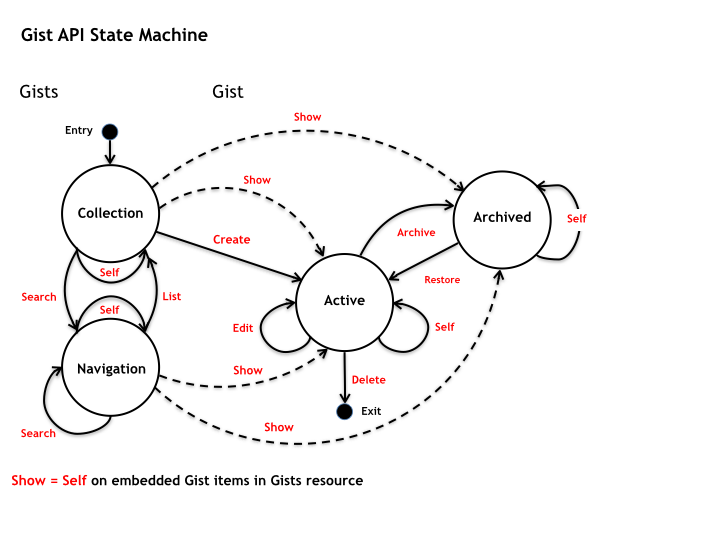
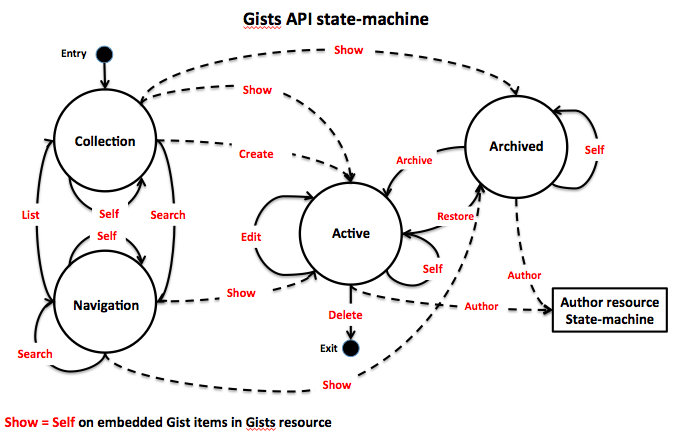
various wording fixes in README and API.md and updated state-machine pics

diff --git a/resource blueprint/README.md b/resource blueprint/README.md
@@ -1,10 +1,16 @@
 # Resource Blueprint
-Initial proposal of resource-oriented, protocol-independent [API Blueprint](http://apiblueprint.org). Focused on modeling API resources, its attributes, affordances and an API state machine.
+Initial proposal of resource-oriented, protocol-independent [API Blueprint](http://apiblueprint.org). Focused on modeling API resources, their attributes, [affordances](http://en.wikipedia.org/wiki/Affordance) and an API state machine.
 
 ## Use Case API
-As a use-case API this proposal is built on [Gist Fox API](../examples/Gist%20Fox%20API.md). To demonstrate the description of the API state machine the Gist Fox API is extended with additional resource states.
+As a use-case API this proposal is built on [Gist Fox API](../examples/Gist%20Fox%20API.md). This example API includes:
 
-The actual proposed blueprint can be found in the [Gist API.md](Gist%20API.md) file. To view the source of the Gist API check its [raw version](https://raw.github.com/apiaryio/api-blueprint/resource-blueprint/resource%20blueprint/Gist%20API.md). Refer to [Resource Blueprint Syntax](#syntax) for explanation of new syntax constructs.
+* Entry point details
+* Gists collection resource in full detail
+* Gist entity resource in minimal detail
+
+To demonstrate the description of the API state machine the Gist Fox API is extended with additional resource states.
+The actual proposed blueprint can be found in the [Gist API.md](Gist%20API.md) file. To view the source of the Gist API 
+check its [raw version](https://raw.github.com/apiaryio/api-blueprint/resource-blueprint/resource%20blueprint/Gist%20API.md). Refer to [Resource Blueprint Syntax](#syntax) for explanation of new syntax constructs.
 
 ## Gist State Machine
 
@@ -14,7 +20,7 @@ An entry point to Resource Blueprint Gist API is the `Gists` resource in its `co
 
 ![fig1](assets/Gist%20State%20Machine%20001.png)
 
-> **Note:** Collection also serves as a factory for individual entities.
+> **Note:** Collection also serves as a factory for individual `Gist` entities.
 
 ### Gist Resource
 A `Gist` resource created by the `Gists`'s `create` affordance has following two states: `active` and `archived`:
@@ -22,11 +28,9 @@ A `Gist` resource created by the `Gists`'s `create` affordance has following two
 ![fig2](assets/Gist%20State%20Machine%20002.png)
 
 ### Embedded Entities
-Finally, a `Gist` resource embedded in the `items` attribute of a `Gists` resource can be accessed via its `self` affordance:
+Finally, an individual `Gist` resource embedded in the `items` attribute of a `Gists` resource can be accessed directly via its `self` affordance:
 
 ![fig3](assets/Gist%20State%20Machine%20003.png)
-
-> **Note:** The `Gist` Resource also specifies an undefined `Author` affordance. This is inte
 
 <a name="syntax"></a>
 ## Resource Blueprint Syntax
@@ -38,14 +42,14 @@ New keywords introduced in the Resource Blueprint are:
 
 + 	`Resource` - Definition of a resource e.g. `Resource <resource name>`.
 
-+ 	`Attributes` - Definition of resource attributes. *Alt keyword:* `Properites`.
++ 	`Attributes` - Definition of resource attributes. *Alt keyword:* `Properties`.
 
-+ 	`Affordances` (optional) - Definition of **all** resource's affordances. *Alt keywords:* `Transition`, `Actions` or `Link Relations`.
++ 	`Affordances` (optional) - Definition of **all** resource's affordances. *Alt keywords:* `Transitions`, `Actions` or `Link Relations`.
 		
 	*Optional:* A resource definition without any affordance should assume one default "show/self" affordance.
 
 + 	`States` (optional) - definition of resource states and state transitions invoked using affordances.
-	Each state should lists all available affordances the final state of using the relevant affordance in format:
+	Each state should list all available affordances and the associated final state using the relevant affordance in the format:
 
     ```
     <affordance> -> <new state>
@@ -59,23 +63,24 @@ New keywords introduced in the Resource Blueprint are:
 	Associated with business rules tied to an affordance being available or present in a response. 
 	*Alt keywords:* `Permissions` or `Rights`
 
-	*Optional:* Conditional affordances are completely optional.
+	*Optional:* Conditions on affordances are completely optional. Absent conditions, an affordance should be considered always present in a response.
 
 +	`HTTP`, `TCP`, `COAP`, `<other protocol>` (optional) - Protocol specific implementation of respective affordances.
 
 	*Optional:* Protocol section should be optional. If not present, in the case of HTTP, a default method (GET?) should be expected with a default URI constructed from the resource name and possibly affordance parameters and or name. To be decided. 
 
-+	`Media Types` (optional) - List of supported media type representation of respective resource attributes and affordances.
++	`Media Types` (optional) - List of supported media type representations of respective resource attributes and affordances.
 	Might include an explicit example asset.
 
 	*Optional:* If media types are not present a default media type should be provided possibly `application/hal+json` and `application/vnd.siren+json`
 
-	If a media type is specified by no explicit example is provided a default representation using attributes and affordances should be provided.
+	If a media type is specified but no explicit example is provided, a default representation using attributes and affordances will be
+	generated for known media-types. For unknown media-types an explicit example should be included.
 
 > **Note:** Consider using alt keywords to improve clarity for general audience.
 
 ### Naming Attributes and Affordances
-Where possible use an undecorated plain text. In the case of a clash with keyword and/or the need for escaping (to not collide with Markdown syntax) use [Markdown code span element syntax](http://daringfireball.net/projects/markdown/syntax#code) e.g. `` `Attributes` ``.
+Where possible use undecorated plain text. In the case of a clash with keyword and/or the need for escaping (to not collide with Markdown syntax) use [Markdown code span element syntax](http://daringfireball.net/projects/markdown/syntax#code) e.g. `` `Attributes` ``.
 
 ### Referencing Syntax
 + 	Reference to a resource representation: `[<resource>][]`

diff --git a/resource blueprint/Gist API.md b/resource blueprint/Gist API.md
@@ -5,31 +5,57 @@ Our Gists API.
 [Gists.list][]
 
 ## Resource Gists
-Resource Gists is a list of individual Gist pastes.
+The Gists resource is a list of individual Gist pastes.
 
 ### Attributes
-The properities of a gist collection.
+The properties of a gist collection (Gists resource).
 
 + total_count (number) - The count of gists in the collection.
-+ items (array) - The array of embedded gist entities.
+  + Metadata
+    + profile:
+      + type: semantic
++ items (array) - An array of embedded individual [Gist][] entities.
+  + Metadata
+    + profile:
+      + type: semantic
+      
 
 ### Affordances
 Link relations of a gist collection.
 
 + list - Returns the current resource.
-
-+ create - Creates a gists, adds a gist to collection.
-    + Attributes
-        + description (string) - Description of the gist.
-        + content (string) - Content of the gist.
-
+  + Metadata
+    + profile:
+      + type: safe      
++ create - Creates a gist, adds a gist to collection.
+  + Metadata
+    + profile:
+      + type: unsafe      
+  + Attributes
+    + description (string) - Description of the gist.
+      + Metadata
+        + profile:
+          + type: semantic                  
+    + content (string) - Content of the gist.
+      + Metadata
+        + profile:
+          + type: semantic
 + search - Filters results based on parameters.
-    + Parameters
-        + search_by (string) - Keyword to search on.
-        + search_by_attribute (string) - Attribute to apply search to.
-            + Values
-                + description
-                + content
+  + Metadata
+    + profile:
+      + type: safe     
+  + Parameters
+    + search_by (string) - Keyword to search on.
+      + Metadata
+        + profile:
+          + type: semantic
+    + search_by_attribute (string) - Attribute to apply search to.
+      + Metadata
+        + profile:
+          + type: semantic
+      + Values
+        + description
+        + content
 + first
 + previous
 + next
@@ -54,7 +80,7 @@ States / state machine of a gist collection.
         + search (self) -> navigation
         + list -> collection
         + create -> [Gist#active][]
-            + Conditions, Permissions, Rights
+            + Conditions
                 + can_create
                 + can_update
         + first -> navigation
@@ -87,22 +113,22 @@ HTTP protocol-specific implementation.
 
         [Gists][]
 
-+ first: GET /gists?page=1{per_page}
++ first: GET /gists?page=1{;per_page}
     + Response 200
 
         [Gists][]
 
-+ previous: GET /gists?{page,per_page} 
++ previous: GET /gists{?page,per_page} 
     + Response 200
 
         [Gists][]       
 
-+ next: GET /gists?{page,per_page}
++ next: GET /gists{?page,per_page}
     + Response 200
 
         [Gists][]
 
-+ last: GET /gists?{page,per_page}
++ last: GET /gists{?page,per_page}
     + Response 200
 
         [Gists][]
